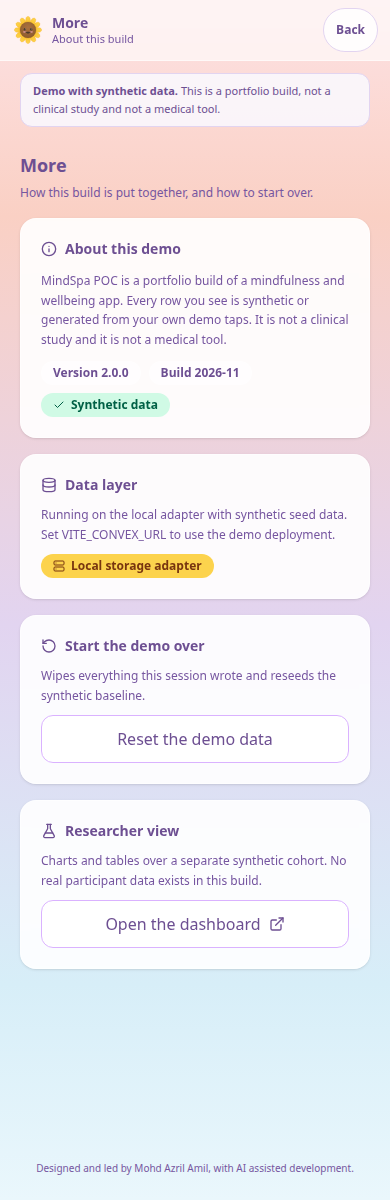
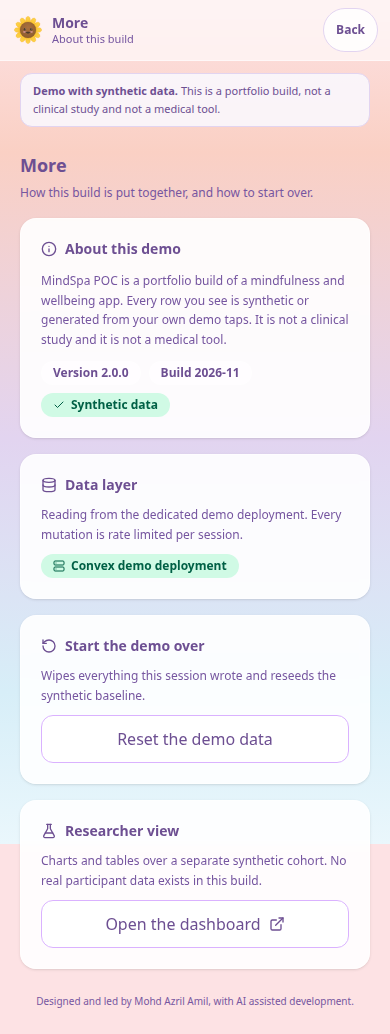
Wire the live demo to Convex and document it
The live site at mindspa-poc.azril.io now uses the dedicated Convex
deployment at convex-demo.azril.io. The More menu screenshot and README
show Convex demo deployment. A daily sweep clears sessions older than
24 hours. The researcher view stays a separate synthetic cohort.

diff --git a/README.md b/README.md
@@ -7,6 +7,15 @@ adapter underneath, and a test suite that runs with no backend at all.
 
 **Live demo:** [https://mindspa-poc.azril.io](https://mindspa-poc.azril.io)
 
+The live site is wired to a dedicated Convex deployment at
+[https://convex-demo.azril.io](https://convex-demo.azril.io), separate from any
+private app. Check-ins, journal entries, sessions and wellbeing answers for an
+anonymous demo session are stored there. Writes are rate limited per session, and
+a scheduled job at 03:15 UTC deletes sessions older than 24 hours. The More menu
+shows `Convex demo deployment` when this is active. The researcher dashboard
+still reads a generated synthetic cohort in the client: a visitor's own session
+never appears in that aggregate.
+
 [![CI](https://github.com/azrilamil/mindspa-poc/actions/workflows/ci.yml/badge.svg)](https://github.com/azrilamil/mindspa-poc/actions/workflows/ci.yml)
 
 > **Demo with synthetic data.** This is a portfolio build, not a clinical study and
@@ -73,8 +82,9 @@ Further captures in `docs/screenshots/`: `10-learn.png`, `11-journal.png`, and `
   `#/admin`.
 - **Installable.** A service worker in prompt mode, with an update banner that waits
   for you rather than reloading mid sentence.
-- **Offline first.** With no backend configured, the app runs entirely on a local
-  adapter with the same interface and the same rate limits.
+- **Offline first.** The live demo uses Convex. Locally, with `VITE_CONVEX_URL`
+  unset, the app runs entirely on a local adapter with the same interface and the
+  same rate limits.
 
 ## Tech stack
 
@@ -128,7 +138,7 @@ the synthetic seed.
 To point at a demo deployment:
 
 ```bash
-VITE_CONVEX_URL=https://your-demo-deployment npm run dev
+VITE_CONVEX_URL=https://convex-demo.azril.io npm run dev
 ```
 
 ## Tests and quality gates

diff --git a/CHANGELOG.md b/CHANGELOG.md
@@ -4,6 +4,15 @@ All notable changes to this repository. The format follows
 [Keep a Changelog](https://keepachangelog.com/en/1.1.0/), and the project uses
 [semantic versioning](https://semver.org/spec/v2.0.0.html).
 
+## [2.0.3] 2026-11-13
+
+### Changed
+
+- The live demo at https://mindspa-poc.azril.io is wired to the dedicated
+  Convex deployment at https://convex-demo.azril.io. The More menu shows
+  Convex demo deployment. Sessions older than 24 hours are swept daily at
+  03:15 UTC. The researcher view remains a separate synthetic cohort.
+
 ## [2.0.0] - 2026-11-13
 
 A full rebuild. The previous 1.0.0 was a thin three screen demo; this release replaces
